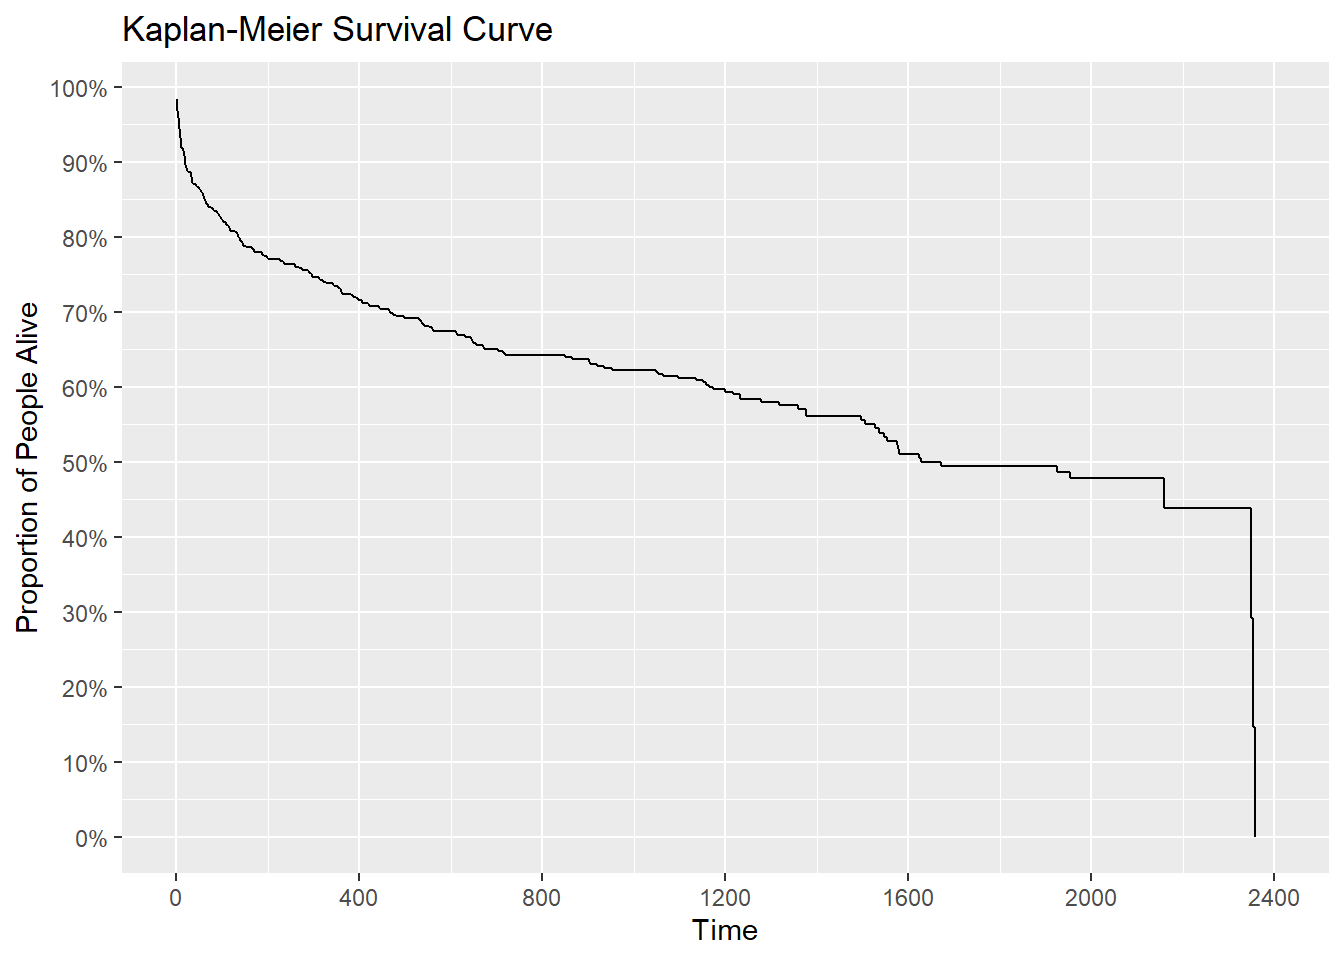
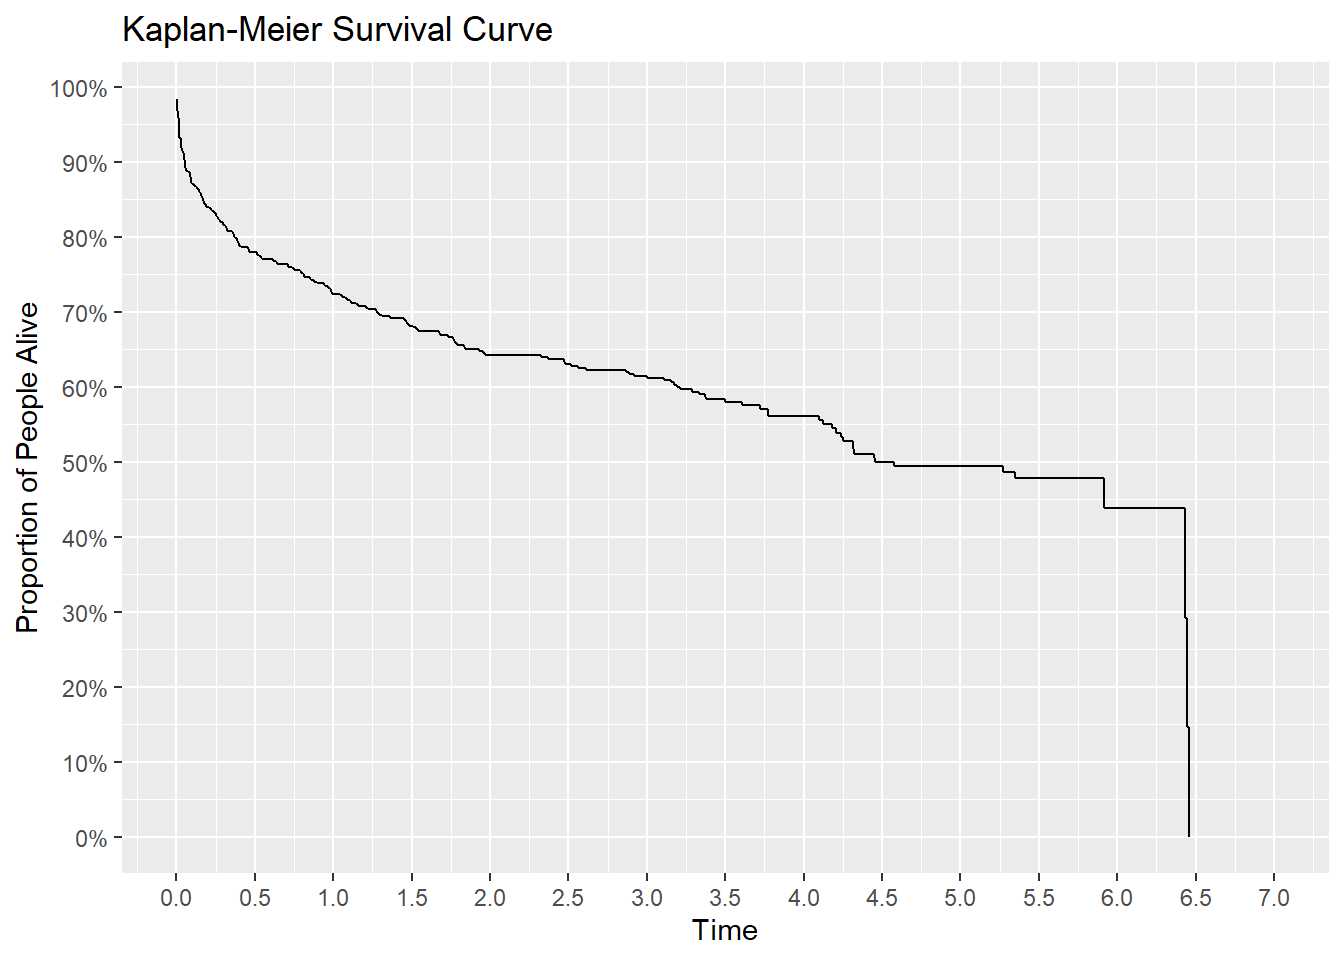
style

diff --git a/README.html b/README.html
@@ -47,7 +47,7 @@ ul.task-list li input[type="checkbox"] {
 
 <section id="repo-overview" class="level2">
 <h2 class="anchored" data-anchor-id="repo-overview">Repo Overview</h2>
-<p>This repo explores two classic statistical models for survival analysis using patients who suffered from heart attacks.</p>
+<p>This repo explores two classic statistical models for survival analysis using patients who experienced myocardial infarctions.</p>
 <p>Models:</p>
 <ul>
 <li>Kaplan-Meier</li>
@@ -128,72 +128,69 @@ ul.task-list li input[type="checkbox"] {
 <p><img src="README_files/figure-html/unnamed-chunk-4-1.png" class="img-fluid" width="672"></p>
 </div>
 </div>
-<p>According to the curve, 70% of patients lived at least 400 days after being admitted to the hospital.</p>
-<p>The KM approach can be used to compare different groups. Is atrial fibrillation associated with worse survival? Visually, the green survival curve is much lower than the red survival curve indicating patients with atrial fibrillation died sooner than patients without it.</p>
+<p>According to the curve, an estimated 70% of patients live at least 1.25 years after being admitted to the hospital for a myocardial infarction.</p>
+<p>The KM approach can be used to compare different groups. Are congestive heart complications associated with worse survival? Visually, the green survival curve is much lower than the red survival curve indicating patients with complications die sooner than patients without.</p>
 <div class="cell">
 <div class="cell-output-display">
 <p><img src="README_files/figure-html/unnamed-chunk-5-1.png" class="img-fluid" width="672"></p>
 </div>
 </div>
-<p>Could this difference in survival be attributed to random chance alone? The log rank test shows a p-value below 5% indicating no. Atrial fibrillation is associated with worse survival.</p>
+<p>Could this difference in survival be attributed to random chance alone? The log rank test shows a p-value below 5% indicating no. Complications are associated with worse survival.</p>
 <div class="cell">
 <div class="cell-output cell-output-stdout">
 <pre><code>Call:
 survdiff(formula = Surv(lenfol, fstat) ~ afb, data = whas500_02)
 
-          N Observed Expected (O-E)^2/E (O-E)^2/V
-afb=No  422      168    184.8      1.52      10.9
-afb=Yes  78       47     30.2      9.31      10.9
+        N Observed Expected (O-E)^2/E (O-E)^2/V
+afb=0 422      168    184.8      1.52      10.9
+afb=1  78       47     30.2      9.31      10.9
 
  Chisq= 10.9  on 1 degrees of freedom, p= 0.001 </code></pre>
 </div>
 </div>
-<p>The Kaplan-Meier model can be used as a descriptive tool or a inference tool. It cannot be used as a prediction tool.</p>
+<p>The Kaplan-Meier model can be used as a descriptive tool or a inference tool. For inference, all other factors are ignored. This possible issue is addressed by the next model.</p>
 </section>
 <section id="cox-proportional-hazards-model" class="level1">
 <h1>Cox Proportional Hazards Model</h1>
-<p>The Cox Proportional Hazards model can provide predictions for unseen data. This gain comes at the cost of assuming a semi-parametric model. With this model, a new survival curve is calculated.</p>
+<p>The Cox Proportional Hazards model is an inference tool that controls other variables that possibly influence survival time. It does this my assuming a semi-parametric relationship between the hazard function and explanatory variables. With this model, a survival curve can be calculated.</p>
 <div class="cell">
 <div class="cell-output-display">
 <p><img src="README_files/figure-html/unnamed-chunk-7-1.png" class="img-fluid" width="672"></p>
 </div>
 </div>
+<p>According to this model, an estimated 70% of patients live at least 3.25 years after being admitted.</p>
 <div class="cell">
 <div class="cell-output cell-output-stdout">
 <pre><code>              coef exp(coef)    se(coef)         z     Pr(&gt;|z|)
-age     0.04802140 1.0491931 0.006750801  7.113437 1.131886e-12
-chf     0.74713412 2.1109416 0.148258613  5.039398 4.669990e-07
-sho     1.21568833 3.3726147 0.269493514  4.511011 6.451924e-06
-hr      0.01157066 1.0116379 0.002983377  3.878377 1.051558e-04
-diasbp -0.01115553 0.9889065 0.003485538 -3.200520 1.371798e-03
-bmi    -0.04767299 0.9534455 0.016413450 -2.904507 3.678315e-03
-gender -0.29304244 0.7459905 0.143242897 -2.045773 4.077872e-02
-mitype -0.26901702 0.7641302 0.182019047 -1.477961 1.394183e-01</code></pre>
+age     0.05723802 1.0589078 0.006417813  8.918617 4.721482e-19
+chf     0.84655007 2.3315891 0.144915759  5.841670 5.168004e-09
+sho     1.05101250 2.8605460 0.267750715  3.925340 8.660745e-05
+gender -0.18200553 0.8335967 0.141142629 -1.289515 1.972191e-01
+mitype -0.41349385 0.6613356 0.178263485 -2.319566 2.036439e-02</code></pre>
 </div>
 </div>
-<p>According to the model (and ignoring the inflated type I error rates), risk of death increases with:</p>
+<p>According to the model (and ignoring the inflated type I error rate), risk of death increases with:</p>
 <ul>
 <li>Increases in age</li>
 <li>Congestive heart complications</li>
 <li>Cardiogenic shock</li>
-<li>Increases in heart rate</li>
 </ul>
 <p>Risk of death decreases with:</p>
 <ul>
-<li>Increases in diastolic blood pressure</li>
-<li>Increases in body mass index</li>
 <li>Being male</li>
-<li>Having a Q-way heart attack instead of a non Q wave.</li>
+<li>Having a Q-wave heart attack instead of a non Q wave.</li>
 </ul>
+<p>Note Q-wave itself may not be protective. It is possible Q-wave heart attacks are easier to identify leading to earlier patient escalation and therefore better survival.</p>
 </section>
 <section id="survival-curve-comparison" class="level1">
 <h1>Survival Curve Comparison</h1>
-<p>The two models lead to meaningfully different survival curves. This is due to the difference in model assumptions. The Kaplan-Meier model is nonparametric. The Proportional Hazards model is semi-parametric.</p>
+<p>The two models lead to meaningfully different survival curves. This is due to the difference in model assumptions. Under the hood, the Proportional Hazards model uses the Nelson-Aalen estimator of survival instead of the Kaplan-Meier estimator.</p>
 <div class="cell">
 <div class="cell-output-display">
 <p><img src="README_files/figure-html/unnamed-chunk-9-1.png" class="img-fluid" width="672"></p>
 </div>
 </div>
+<p>The K.M. estimator will never be greater than the N.A. estimator. Depending on observed data, it is possible the two estimators are functionally equal.</p>
 </section>
 
 </main>
